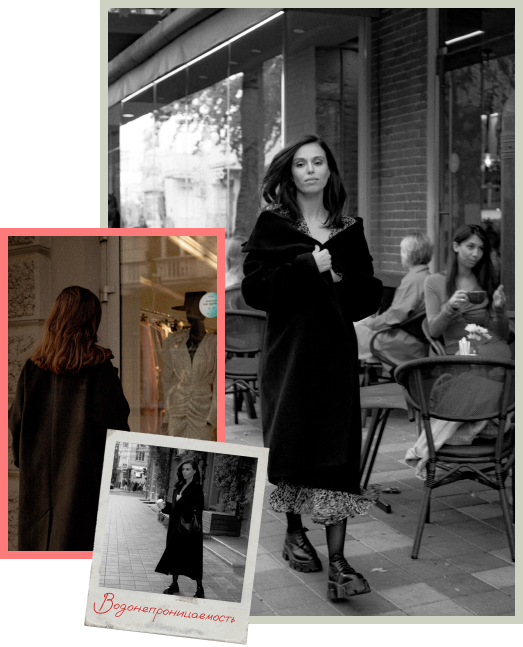
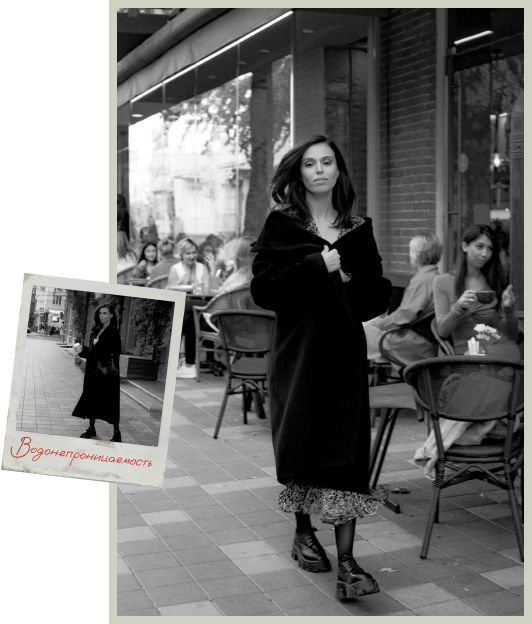
commit

diff --git a/index.html b/index.html
@@ -192,23 +192,15 @@
         <div class="sub-page__btn">
           <button class="btn js-btn-back">Назад</button>
         </div>
-        <div class="sub-page__row">
-          <div class="sub-page__col">
+        <div class="sub-page__row sub-page__row--top">
+          <div class="sub-page__col sub-page__col--pad">
             <h2 class="title">Климат<br />-контроль</h2>
             <p class="description">
-              Возможно, ты сталкивалась с тем, что в холодное время года
-              заходила в помещение в верхней одежде и сразу начинала потеть.
-              Климат-контроль создан именно для того, чтобы избежать подобных
-              проблем. Это относительно новая технология, которая регулирует
-              температуру и влажность внутри одежды и обеспечивает максимальный
-              комфорт в любых климатических условиях.
+              Возможно, ты сталкивалась с тем, что в холодное время года заходила в помещение в верхней одежде и сразу начинала потеть. Климат-контроль создан именно для того, чтобы избежать подобных проблем. Это относительно новая технология, которая регулирует температуру и влажность внутри одежды и обеспечивает максимальный комфорт в любых климатических условиях.
             </p>
             <div class="sreen-klimat__arrow"></div>
             <p class="description description--arrow">
-              Мы провели небольшой эксперимент с пальто
-              <a href="#" data-modal="#modal-pompa" class="js-modal">Pompa</a>,
-              чтобы понять, насколько эффективно работает мембрана
-              климат-контроля.
+              Мы провели небольшой эксперимент с пальто <a href="#" data-modal="#modal-pompa" class="js-modal">Pompa</a>, чтобы понять, насколько эффективно работает мембрана климат-контроля.
             </p>
           </div>
           <div class="sub-page__col">
@@ -217,14 +209,15 @@
                 <img src="img/img05.jpg" alt="" />
               </div>
               <div class="sreen-klimat__img-right">
-                <img src="img/img06.png" alt="" />
+                <div class="border-img">
+                  <div class="border-img__border"></div>
+                  <img src="img/img-gifs03.gif" alt="">
+                </div>
               </div>
               <div class="sreen-klimat__butterfly"></div>
             </div>
-            <p class="description">
-              С одной стороны пальто мы расположили емкость с водой, с другой —
-              зеркало. Спустя буквально несколько секунд зеркало запотело. Это
-              значит, что мембрана вывела всю жидкость на поверхность.
+            <p class="description description--sm">
+              С одной стороны пальто мы расположили отпариватель, который имитировал процесс потоотделения, с другой — зеркало. Спустя буквально несколько секунд зеркало запотело. Это значит, что мембрана вывела всю жидкость на поверхность.
             </p>
           </div>
         </div>
@@ -265,7 +258,10 @@
             </p>
           </div>
           <div class="sreen-nepro__img-bot">
-            <img src="img/img08.png" alt="" />
+            <div class="border-img border-img--sm">
+              <div class="border-img__border"></div>
+                  <img src="img/img-gifs01.gif" alt="">
+            </div>
           </div>
         </div>
       </div>
@@ -321,19 +317,19 @@
           <button class="btn js-btn-back">Назад</button>
         </div>
         <h2 class="title">Водонепроницаемость</h2>
-        <div class="sub-page__row sub-page__row--three">
+        <div class="sub-page__row sub-page__row--top sub-page__row--three">
           <div class="sub-page__col">
             <p class="description">
-              Мембрана — универсальный материал, который защитит твое тело от
-              ветра, снега и дождя. Чтобы в этом убедиться, мы провели небольшой
-              эксперимент с зеркалом и разбрызгивателем воды. 
+              Мембрана — универсальный материал, который защитит твое тело от ветра, снега и дождя. Чтобы в этом убедиться, мы провели небольшой эксперимент 
+с зеркалом и пульверизатором.
+
             </p>
             <p class="description">
-              Главная цель — посмотреть, останутся ли капли на поверхности
-              зеркала при обильном разбрызгивании воды на верхнюю одежду. С
-              одной стороны пальто расположили зеркало, с другой — начали
-              поливать его из спринклера. Когда одежда сильно намокла, мы
-              проверили поверхность зеркала: оно осталось сухим.
+              Главная цель — посмотреть, останутся 
+              ли капли на поверхности зеркала 
+              при обильном разбрызгивании воды 
+              на верхнюю одежду. С одной стороны пальто расположили зеркало, с другой — начали поливать его из пульверизатора. Когда одежда сильно намокла, мы проверили поверхность зеркала: оно осталось сухим.
+              
             </p>
           </div>
           <div class="sub-page__col">
@@ -344,10 +340,12 @@
           <div class="sub-page__col">
             <div class="border-entry border-entry--sm sreen-aqua__border-entry">
               <p class="description">
-                <span>Важно:</span> ткани, которые содержат шерсть, не любят
-                воды и могут испортиться. Поэтому мы советуем не повторять наших
-                экспериментов дома, а просто носить пальто и наслаждаться. 
+                <span>Важно:</span> ткани, которые содержат шерсть, не любят воды и могут испортиться. Поэтому мы советуем не повторять наших экспериментов дома, а просто носить пальто и наслаждаться. 
               </p>
+            </div>
+            <div class="border-img border-img--sm">
+              <div class="border-img__border"></div>
+                  <img src="img/img-gifs02.gif" alt="">
             </div>
           </div>
         </div>

diff --git a/css/style.css b/css/style.css
@@ -251,6 +251,10 @@ a {
   line-height: 1.3em;
 }
 
+.description--sm {
+  font-size: 1em;
+}
+
 .description:not(:last-child) {
   margin-bottom: 1.9em;
 }
@@ -306,8 +310,41 @@ a {
 }
 
 .border-entry--sm {
-  min-height: 17.45em;
+  min-height: 15.45em;
   background-image: url("../img/bg-blur-sm.png");
+}
+
+.border-img {
+  position: relative;
+  padding: 4.650em 4.800em 0;
+  width: 24.450em;
+  height: 31.550em;
+  overflow: hidden;
+}
+
+.border-img--sm {
+  margin-left: -6.250em;
+  padding: 3.550em 3.350em 0;
+  width: 18.700em;
+  height: 24.250em;
+}
+
+.border-img img {
+  position: relative;
+  display: block;
+  width: 100%;
+  z-index: 1;
+}
+
+.border-img__border {
+  position: absolute;
+  top: 0;
+  left: 0;
+  width: 100%;
+  height: 100%;
+  background: 0 0 url('../img/bg-border-xs.png') no-repeat;
+  background-size: 100% 100%;
+  z-index: 2;
 }
 
 .screen-top {
@@ -1169,11 +1206,14 @@ a {
 .sub-page__row {
   position: relative;
   display: grid;
-  grid-template-columns: 48% 1fr;
+  grid-template-columns: 1fr 24.300em;
   grid-gap: 11em;
   align-items: flex-end;
 }
 
+.sub-page__row--top {
+  align-items: start;
+}
 .sub-page__row--three {
   grid-template-columns: 34% 34% 1fr;
   grid-gap: 1.85em;
@@ -1186,6 +1226,10 @@ a {
 
 .sub-page__col {
   position: relative;
+}
+
+.sub-page__col--pad {
+  padding-right: 4em;
 }
 
 .sub-page__top {
@@ -1212,7 +1256,8 @@ a {
 .sreen-klimat__img {
   position: relative;
   margin-bottom: 2.25em;
-  height: 25.2em;
+  padding-top: 4em;
+  width: 24.450em;
 }
 
 .sreen-klimat__img img {
@@ -1220,17 +1265,16 @@ a {
   width: 100%;
 }
 
-.sreen-klimat__img-left,
-.sreen-klimat__img-right {
+.sreen-klimat__img-left {
   position: absolute;
   z-index: 1;
 }
 
 .sreen-klimat__img-left {
-  top: 1em;
-  right: 1em;
-  width: 14.05em;
-  height: 20.4em;
+  top: -5em;
+  right: 0;
+  width: 20.000em;
+  height: 29em;
   animation: klimat-img-left 1s linear forwards;
 }
 
@@ -1251,40 +1295,19 @@ a {
 }
 
 .sreen-klimat__img-right {
-  top: 0;
-  right: 0;
-  width: 20.65em;
-  height: 25.2em;
-  animation: klimat-img-right 1s linear forwards;
+  position: relative;
+  width: 24.450em;
+  height: 31.550em;
+  z-index: 2;
 }
 
-@keyframes klimat-img-right {
-  0% {
-    transform: rotate(0deg);
-    animation-timing-function: linear;
-  }
-
-  61% {
-    transform: rotate(0deg);
-    animation-timing-function: cubic-bezier(0.34, 1.61, 0.7, 1);
-  }
-
-  80% {
-    transform: rotate(5deg);
-    animation-timing-function: cubic-bezier(0.34, 1.61, 0.7, 1);
-  }
-
-  100% {
-    transform: rotate(0deg);
-  }
-}
 
 .sreen-klimat__butterfly {
   position: absolute;
   right: 18em;
-  top: -6em;
-  width: 9em;
-  height: 10.2em;
+  top: -8em;
+  width: 4.650em;
+  height: 5em;
   background: 0 0 url("../img/butterfly03.png") no-repeat;
   background-size: 100% 100%;
   z-index: 11;
@@ -1294,8 +1317,8 @@ a {
 
 .sreen-klimat__arrow {
   position: absolute;
-  bottom: 4.45em;
-  right: -6.25em;
+  bottom: 2.45em;
+  right: -4.25em;
   width: 14.15em;
   height: 5.25em;
   background: 0 0 url("../img/arrow01.svg") no-repeat;
@@ -1328,7 +1351,8 @@ a {
 
 .sreen-nepro__entry {
   margin-left: 26em;
-  margin-right: 14em;
+  margin-right: 20.000em;
+  padding-bottom: 6.000em;
 }
 
 .sreen-nepro__butterfly {
@@ -1390,6 +1414,10 @@ a {
 
 .sreen-aqua__border-entry {
   margin-bottom: 1em;
+}
+
+.sreen-aqua__border-entry.border-entry--sm {
+  margin-bottom: 3em;
 }
 
 .sreen-makeup__img img {
@@ -1500,6 +1528,10 @@ a {
   .screen-bottom__description,
   .modal__descroption {
     font-size: 20px;
+  }
+
+  .description--sm {
+    font-size: 18px;
   }
 
   .modal__descroption {
@@ -1810,6 +1842,34 @@ a {
     width: 5.5em;
     height: 5.5em;
     transform: translateY(calc(-50% - 1.8em));
+  }
+  .sreen-klimat__img {
+    width: 100%;
+  }
+  .sreen-klimat__img-left {
+    right: auto;
+    width: 320px;
+    height: auto;
+    left: 100px;
+  }
+  .sreen-klimat__img-right {
+    width: auto;
+    height: auto;
+    padding-top: 200px;
+  }
+  .border-img {
+    margin: 0 auto;
+    padding: 60px 64px 0;
+    max-width: 320px;
+    width: auto;
+    height: auto;
+  }
+  
+  .border-img--sm {
+    margin-left: auto;
+    padding: 65px 69px 0;
+    width: auto;
+    height: auto;
   }
 }
 
